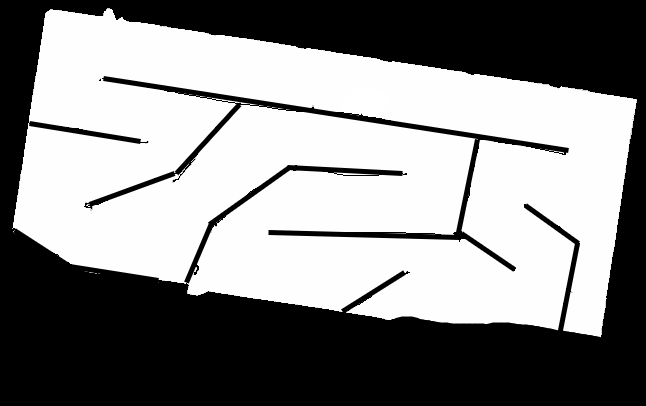
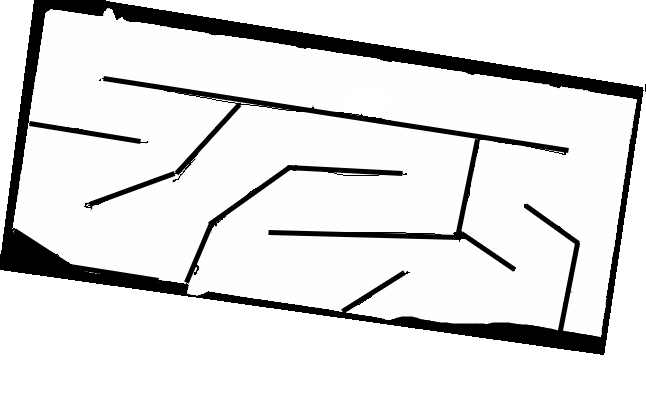
general cleanup

diff --git a/TrainingLite/rl_racing/observation_builder_template.py b/TrainingLite/rl_racing/observation_builder_template.py
@@ -19,9 +19,20 @@ def build_observation(super_obs: Dict[str, np.ndarray], planner: Any = None) -> 
     next_waypoints = super_obs["next_waypoints"].astype(np.float32)
     state_history_len = 1
     state_history = super_obs["state_history"].astype(np.float32)
-    state_features = state_history[
-        -state_history_len:, [LINEAR_VEL_X_IDX, LINEAR_VEL_Y_IDX, ANGULAR_VEL_Z_IDX, STEERING_ANGLE_IDX]
-    ].reshape(-1).astype(np.float32)
+    state_indices = [
+        LINEAR_VEL_X_IDX,
+        LINEAR_VEL_Y_IDX,
+        ANGULAR_VEL_Z_IDX,
+        STEERING_ANGLE_IDX,
+    ]
+    state_slice = state_history[-state_history_len:, state_indices]
+    if state_slice.shape[0] < state_history_len:
+        pad = np.zeros(
+            (state_history_len - state_slice.shape[0], len(state_indices)),
+            dtype=np.float32,
+        )
+        state_slice = np.concatenate([pad, state_slice], axis=0)
+    state_features = state_slice.reshape(-1).astype(np.float32)
     last_actions = super_obs["last_actions"].astype(np.float32)
 
     curvatures = super_obs["next_waypoints"][:, WP_KAPPA_IDX].astype(np.float32)
@@ -42,7 +53,28 @@ def build_observation(super_obs: Dict[str, np.ndarray], planner: Any = None) -> 
 
     pp_action = super_obs["pp_action"].astype(np.float32)
 
-    lidar_ranges = super_obs["lidar_ranges"].astype(np.float32)
+    lidar_history_len = 3
+    lidar_history_stride = 5  # 1 = consecutive frames; m>1 = latest, m steps ago, 2m ago, ...
+    # stride = 4, len = 5 → scans at 16, 12, 8, 4, 0 steps back from lates
+    
+    lidar_history = super_obs["lidar_history"].astype(np.float32)
+    n_rows, n_beams = lidar_history.shape
+    lidar_frames = []
+    for i in range(lidar_history_len):
+        steps_back = (lidar_history_len - 1 - i) * lidar_history_stride
+        idx = n_rows - 1 - steps_back
+        if idx >= 0:
+            lidar_frames.append(lidar_history[idx])
+        else:
+            lidar_frames.append(np.zeros(n_beams, dtype=np.float32))
+    lidar_features = np.stack(lidar_frames, axis=0).reshape(-1).astype(np.float32)
+
+    motor_angular_velocity = np.asarray(
+        super_obs["motor_sensors"]["motor_angular_velocity"], dtype=np.float32
+    ).reshape(-1)
+    imu_x = np.asarray(super_obs["imu"]["imu_a_x"], dtype=np.float32).reshape(-1)
+    imu_y = np.asarray(super_obs["imu"]["imu_a_y"], dtype=np.float32).reshape(-1)
+
 
     obs = np.concatenate(
         [
@@ -53,7 +85,10 @@ def build_observation(super_obs: Dict[str, np.ndarray], planner: Any = None) -> 
             1.0 * np.concatenate([d, e]),
             0.1 * target_speeds,
             [1.0, 0.1] * pp_action,
-            # 0.1 * lidar_ranges,
+            0.1 * lidar_features,
+            # 1/10000 * motor_angular_velocity,
+            0.2 * imu_x,
+            0.2 * imu_y,
         ]
     ).astype(np.float32)
 

diff --git a/TrainingLite/rl_racing/RewardCalculator.py b/TrainingLite/rl_racing/RewardCalculator.py
@@ -15,6 +15,7 @@ from utilities.waypoint_utils import *
 class RewardCalculator:
     # Cap history to avoid unbounded growth → GC pauses and FPS drops after 100k+ steps
     REWARD_HISTORY_CAP = 10_000
+    PROXIMITY_THRESHOLD_M = 0.8
 
     def __init__(self):
         
@@ -31,6 +32,7 @@ class RewardCalculator:
         self.w_d_steering = 1.5
         self.w_d_acceleration = 0.1
         self.w_speed_cap = 0.0 # 0.3
+        self.w_proximity = 2.0
 
         if Settings.RANDOM_WAYPOINT_VEL_FACTOR:
             self.w_speed_cap = 0.3
@@ -72,6 +74,7 @@ class RewardCalculator:
         reward = 0
 
         crash = controller_obs.get('collision', False)
+        virtual_opponent_collision = controller_obs.get('virtual_opponent_collision', False)
         interruption = controller_obs.get('interrupted', False)
 
         speed = math.sqrt(car_state[LINEAR_VEL_X_IDX]**2 + car_state[LINEAR_VEL_Y_IDX]**2)
@@ -83,7 +86,7 @@ class RewardCalculator:
         wp_distances_l = next_waypoints[0, WP_D_LEFT_IDX]
         wp_distances_r = next_waypoints[0, WP_D_RIGHT_IDX]
         leave_bounds = d < -wp_distances_r or d > wp_distances_l
-        if interruption:
+        if leave_bounds or crash or virtual_opponent_collision or interruption:
             crash_penalty = -self.w_crash
             crash_penalty -= 1.5 * speed
             reward += crash_penalty
@@ -134,8 +137,22 @@ class RewardCalculator:
         if(speed > suggested_speed):
             speed_cap_penalty = - self.w_speed_cap * (speed - suggested_speed) ** 2
         reward += speed_cap_penalty
-        
-        
+
+        # Quadratic proximity penalty from min lidar distance and virtual opponents.
+        proximity_penalty = 0.0
+        min_dist = float("inf")
+        processed_ranges = controller_obs.get("processed_ranges")
+        if processed_ranges is not None and len(processed_ranges) > 0:
+            min_dist = float(np.min(processed_ranges))
+        vo_dist = controller_obs.get("min_virtual_opponent_distance")
+        if vo_dist is not None and np.isfinite(vo_dist):
+            min_dist = min(min_dist, float(vo_dist))
+        if np.isfinite(min_dist) and min_dist < self.PROXIMITY_THRESHOLD_M:
+            proximity_value = (
+                (self.PROXIMITY_THRESHOLD_M - min_dist) / self.PROXIMITY_THRESHOLD_M
+            ) ** 2
+            proximity_penalty = -self.w_proximity * proximity_value
+        reward += proximity_penalty
 
         # Spinning reward Penalize Spinning (Fixing Instability)
         spin_reward = 0.0
@@ -150,7 +167,7 @@ class RewardCalculator:
 
         # Penalize Being Stuck
         stuck_reward = 0.0
-        if speed < 1.0:
+        if speed < 0.3:
             self.stuck_counter += 1
             stuck_reward = -0.05
             if self.stuck_counter >= 50:
@@ -172,6 +189,7 @@ class RewardCalculator:
             "wp_distance_penalty": float(wp_distance_penalty),
             "d_action_penality": float(d_action_penality),
             "speed_cap_penalty": float(speed_cap_penalty),
+            "proximity_penalty": float(proximity_penalty),
             "stuck_reward": float(stuck_reward),
             "spin_reward": float(spin_reward),
         }
@@ -229,6 +247,7 @@ class RewardCalculator:
             # "acceleration_penalty",
             "wp_distance_penalty",
             "d_action_penality",
+            "proximity_penalty",
             "stuck_reward",
             "spin_reward",
             "difficulty",

diff --git a/utilities/Settings.py b/utilities/Settings.py
@@ -15,7 +15,7 @@ class Settings():
     BLANK_MAP = False  # If True, skip setting map for all sensors (no borders, no scans, no crashes possible)
 
     # Controller Settings
-    CONTROLLER = 'pp' # Options: 'manual','mpc','ftg',neural,'pp','stanley', 'mppi-lite', 'mppi-lite-jax', 'rpgd-lite-jax', 'example'
+    CONTROLLER = 'mpc' # Options: 'manual','mpc','ftg',neural,'pp','stanley', 'mppi-lite', 'mppi-lite-jax', 'mppi-c', 'rpgd-lite-jax', 'example'
     MOTOR_PID_IN_CAR_MODEL = False  # If True: control[1] is desired speed and PI is used. If False: control[1] is direct acceleration.
 
     TIMESTEP_CONTROL = 0.04    # Multiple of 0.01; how often to recalculate control input
@@ -66,19 +66,19 @@ class Settings():
 
     # Virtual opponents: lightweight lidar occluders replaying recorded trajectories (no physics).
     # Per-opponent arrays must match NUMBER_OF_VIRTUAL_OPPONENTS.
-    NUMBER_OF_VIRTUAL_OPPONENTS = 2
+    NUMBER_OF_VIRTUAL_OPPONENTS = 0
     VIRTUAL_OPPONENT_TRAJECTORY_FOLDER = os.path.join("utilities", "virtual_opponent_trajectories")
     # CSV filenames must contain Settings.MAP_NAME (e.g. sac_opponent_trajectory_RCA1.csv).
     VIRTUAL_OPPONENT_RECORDINGS = [
         "sac_opponent_trajectory_RCA1.csv",
         "sac_opponent_trajectory_RCA1.csv",
     ]
-    VIRTUAL_OPPONENT_DISTANCE_AHEAD_WAYPOINTS = [30, 50]
+    VIRTUAL_OPPONENT_DISTANCE_AHEAD_WAYPOINTS = [30, 100]
     VIRTUAL_OPPONENT_DISTANCE_AHEAD_WAYPOINTS_RANDOM_MAX = 20  # Extra waypoints added per opponent at spawn; 0 = off.
     VIRTUAL_OPPONENT_VEL_FACTORS = [0.5, 0.5]
     VIRTUAL_OPPONENT_START_OFFSET_S = [0.0, 0.0]
     VIRTUAL_OPPONENT_TRIM_TO_SINGLE_LAP = True  # Use one clean lap from recording (no loop jump).
-    VIRTUAL_OPPONENT_SIZE = [0.9, 0.9]  # [width, length] in meters; None uses ego car dimensions.
+    VIRTUAL_OPPONENT_SIZE = [0.35, 0.5]  # [width, length] in meters; None uses ego car dimensions.
     VIRTUAL_OPPONENT_LOOP = True  # Loop single-lap recording when playback time exceeds lap duration.
     TERMINATE_ON_VIRTUAL_OPPONENT_COLLISION = True  # End episode with crash penalty on body overlap.
     
@@ -215,7 +215,7 @@ class Settings():
     ## SAC Agent planner
     ACTOR_ID = 0                         # RL actor index (TCP learner + web renderer port offset)
     SAC_INFERENCE_MODEL_NAME = None  # Model name to be used for inference. If None, the agent will be in training mode
-    SAC_INFERENCE_MODEL_NAME = "Physical-42d"  # Model name to be used for inference. If None, the agent will be in training mode
+    # SAC_INFERENCE_MODEL_NAME = 'Example-3b'  # Model name to be used for inference. If None, the agent will be in training mode
     # If set (seconds), training actor sends learner terminate once at least two completed laps
     # are strictly faster than this (so metrics can include the first sub-threshold lap).
     SAC_TERMINATE_BELOW_LAPTIME = None
@@ -277,7 +277,7 @@ class Settings():
     # SAC_METRICS_PLOT_INTERVAL_S > 0: refresh every N seconds (wall clock).
     # SAC_METRICS_PLOT_EVERY (when interval is 0): positive int = every N CSV rows; "end" = only when training stops.
     SAC_METRICS_PLOT_INTERVAL_S = 10.0
-    SAC_METRICS_PLOT_EVERY = "end"
+    SAC_METRICS_PLOT_EVERY = 1000
     # Live metrics dashboard (GET /api/metrics on learner HTTP port).
     LEARNER_METRICS_HTTP_ENABLED = True
     LEARNER_METRICS_HTTP_PORT = 5556

diff --git a/TrainingLite/rl_racing/learner_server.py b/TrainingLite/rl_racing/learner_server.py
@@ -15,6 +15,7 @@ from stable_baselines3.common.buffers import ReplayBuffer
 from stable_baselines3.common.vec_env import VecNormalize, DummyVecEnv
 from gymnasium import spaces
 from stable_baselines3.common.logger import configure
+from stable_baselines3.common.utils import get_schedule_fn
 import time
 import csv
 
@@ -248,6 +249,15 @@ class LearnerServer:
         except Exception as e:
             print(f"[server] Failed to prepare client observation builder: {e}")
 
+    def _apply_learning_rate(self, learning_rate: float) -> None:
+        """Apply CLI learning rate to a scratch or loaded SAC model."""
+        if self.model is None:
+            return
+        self.model.learning_rate = float(learning_rate)
+        self.model.lr_schedule = get_schedule_fn(self.model.learning_rate)
+        if not self.init_from_scratch:
+            print(f"[server] Overrode loaded model learning_rate -> {self.model.learning_rate}")
+
     def _load_base_model(self, obs_dim: int):
         """
         Initialize the model + replay buffer.
@@ -287,6 +297,7 @@ class LearnerServer:
 
         self.model.batch_size = self.batch_size
         self.model.gradient_steps = self.grad_steps
+        self._apply_learning_rate(self.learning_rate)
         self.model._logger = configure(folder=None, format_strings=[])
 
         # Fresh replay buffer

diff --git a/TrainingLite/rl_racing/sac_utilities.py b/TrainingLite/rl_racing/sac_utilities.py
@@ -45,6 +45,7 @@ class _SpacesOnlyEnv(gym.Env):
 
         
 class SacUtilities:
+    CONTROL_ACTION_DIM = 2
 
     # --- define spaces ---
     obs_low  = np.array(
@@ -69,7 +70,11 @@ class SacUtilities:
         + [0] * 2
         ,dtype=np.float32)
     obs_space = spaces.Box(low=obs_low, high=obs_high, dtype=np.float32)
-    act_space = spaces.Box(low=np.array([-1, -1], dtype=np.float32), high=np.array([ 1,  1], dtype=np.float32), dtype=np.float32)
+    act_space = spaces.Box(
+        low=np.array([-1, -1], dtype=np.float32),
+        high=np.array([1, 1], dtype=np.float32),
+        dtype=np.float32,
+    )
 
     @staticmethod
     def make_obs_space_from_dim(obs_dim: int, low: float = -1.0, high: float = 1.0) -> spaces.Box:
@@ -112,7 +117,7 @@ class SacUtilities:
                      batch_size=256,
                      train_freq=1
                      ) -> SAC:
-        policy_kwargs = dict(net_arch=[256, 256], activation_fn=torch.nn.Tanh)
+        policy_kwargs = dict(net_arch=[512, 256, 128], activation_fn=torch.nn.Tanh)
         # policy_kwargs = dict(net_arch=[256, 256], activation_fn=torch.nn.ReLU)
 
         #  log_std_init=-3.5

diff --git a/TrainingLite/rl_racing/sac_agent_planner.py b/TrainingLite/rl_racing/sac_agent_planner.py
@@ -68,7 +68,7 @@ torch.set_num_interop_threads(1)  # inter-op parallelism
 # ------------------------
 class RLAgentPlanner(template_planner):
     HISTORY_LEN = 10
-    LIDAR_HISTORY_LEN = 1
+    LIDAR_HISTORY_LEN = 32
     BOOTSTRAP_TRANSITIONS = 2
     ACTION_DENORM = np.array([0.4, 3.0], dtype=np.float32)
 
@@ -235,14 +235,12 @@ class RLAgentPlanner(template_planner):
         self._ensure_model_and_apply_weights(raw_obs, sd_to_load)
 
         action = self._select_action(raw_obs)
-
-        # scale to simulator units
         action = np.clip(action, -1, 1)
         steering, accel = action * self.action_denormalization_array
 
         # remember pre-normalized obs & raw action for transition building
         self.prev_obs_raw = raw_obs
-        self.prev_action  = action
+        self.prev_action = action
 
         # Apply lowpass filter to control outputs
         # filtered = alpha * new_value + (1 - alpha) * previous_value